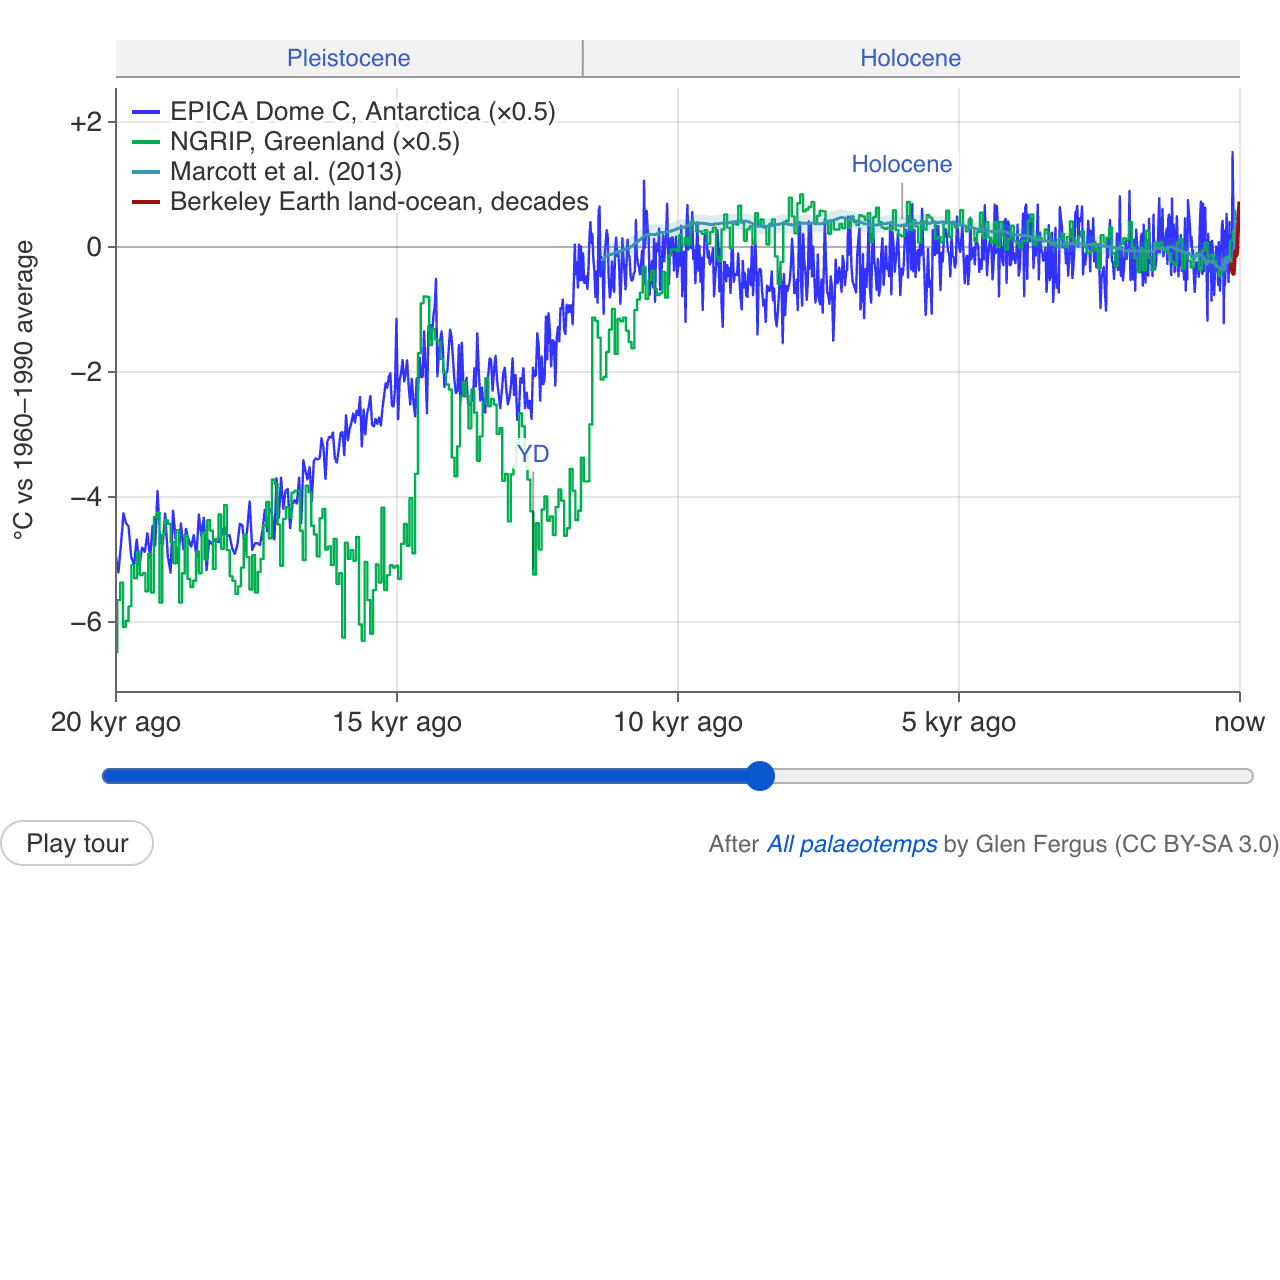
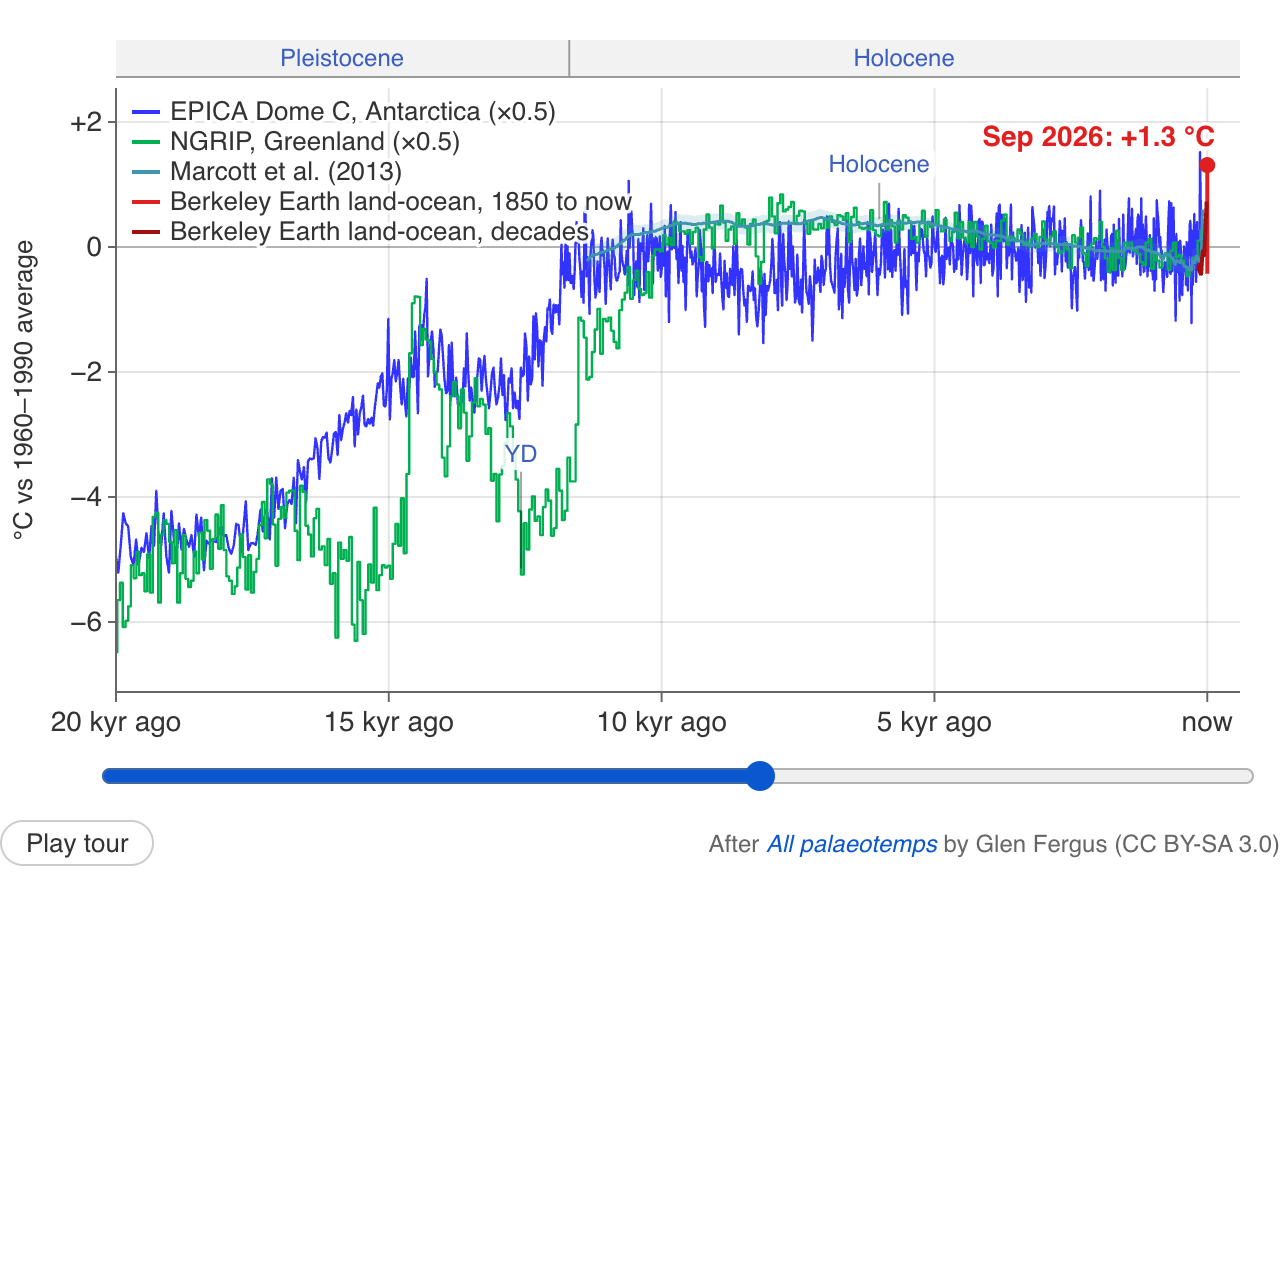
Temperature history: the latest month always on screen, with room after it
The window now runs a little past the latest month (three hundredths of its span), so the
marker at the end of the record and its label always have room and are never cut by the
plot's edge. And the thermometer record never leaves the screen: once the decades are too
narrow to draw, from about twenty thousand years back, Berkeley Earth's record stays as a
red bar from its coolest decade up to the latest month, listed in the legend as "1850 to
now", so today's temperature sits in context against the ice ages and the Phanerozoic
alike. The latest month's dot and label are drawn at every scale, and its value is always
kept inside the temperature range.

diff --git a/src/temperature-history/widget.js b/src/temperature-history/widget.js
@@ -133,6 +133,7 @@ export function createTemperatureHistoryWidget({data, width = FIGURE_WIDTH, look
   const landmarkAlpha = m => fadeIn(m.age * 1.02, m.age * 1.06) * fadeOut(m.age * 5, m.age * 8);
   const latest = monthly[monthly.length - 1];
   const latestLabel = `${monthName(latest[0])} ${Math.floor(latest[0])}: ${formatTemp(latest[1])}`;
+  const thermometerLow = Math.min(...decadal.map(p => p[1]));
 
   // The record's point a landmark hangs its leader on.
   function anchorPoint(m) {
@@ -270,8 +271,12 @@ export function createTemperatureHistoryWidget({data, width = FIGURE_WIDTH, look
   applyLayout(maxW);
 
   // ---- scales ---------------------------------------------------------------------------------
+  // The window runs from `look` years before the latest month to a little after it, so
+  // the marker at the end of the record always has room and is never cut by the edge.
+  const RIGHT_PAD = 0.03;
   const tStart = () => tEnd - look;
-  const x = t => plotL + ((t - tStart()) / look) * (plotR - plotL);
+  const tRight = () => tEnd + look * RIGHT_PAD;
+  const x = t => plotL + ((t - tStart()) / (look * (1 + RIGHT_PAD))) * (plotR - plotL);
   const y = v => PLOT_B - ((v - yLo) / (yHi - yLo)) * PLOT_H;
 
   function sliderToLook(s) {
@@ -291,7 +296,10 @@ export function createTemperatureHistoryWidget({data, width = FIGURE_WIDTH, look
   const alphas = () => ({
     monthly: fadeOut(40, 120),
     annual: fadeIn(25, 60) * fadeOut(1500, 5000),
-    decadal: fadeIn(250, 700) * fadeOut(30000, 100000),
+    decadal: fadeIn(250, 700) * fadeOut(20000, 60000),
+    // Once the decades are too narrow to draw, the thermometer record stays on screen as a
+    // bar from its coolest decade up to the latest month, so today is always in context.
+    spike: fadeIn(5000, 20000),
     marcott: fadeIn(400, 1200) * fadeOut(300000, 1e6),
     ngrip: fadeIn(800, 2500) * fadeOut(2e6, 6e6),
     epica: fadeIn(800, 2500) * fadeOut(10e6, 30e6),
@@ -305,7 +313,7 @@ export function createTemperatureHistoryWidget({data, width = FIGURE_WIDTH, look
   // drawn, over the window.
   function targetRange() {
     const a = alphas();
-    const t0 = tStart(), t1 = tEnd + look * 0.02;
+    const t0 = tStart(), t1 = tRight();
     let lo = Infinity, hi = -Infinity;
     const take = v => { if (v < lo) lo = v; if (v > hi) hi = v; };
     const scan = (pts, alpha, cols = [1]) => {
@@ -325,6 +333,8 @@ export function createTemperatureHistoryWidget({data, width = FIGURE_WIDTH, look
     scan(royer, a.royer, [1, 2, 3, 4]);
     if (!Number.isFinite(lo)) { lo = -1; hi = 1; }
     take(0);   // the 1960–1990 baseline is always in view
+    take(latest[1]);   // and so is the latest month
+    if (a.spike > 0.02) take(thermometerLow);
     const pad = Math.max(0.2, (hi - lo) * 0.08);
     return [lo - pad, hi + pad * 1.6];   // extra room above for the labels
   }
@@ -361,7 +371,7 @@ export function createTemperatureHistoryWidget({data, width = FIGURE_WIDTH, look
 
   function drawChart(shown) {
     const a = alphas();
-    const t0 = tStart(), t1 = tEnd + look * 0.02;
+    const t0 = tStart(), t1 = tRight();
 
     // Gridlines and axes.
     const yt = yTicks(yLo, yHi, PLOT_H);
@@ -388,23 +398,27 @@ export function createTemperatureHistoryWidget({data, width = FIGURE_WIDTH, look
     if (a.epica > 0.02) strokeSeries(epica, t0, t1, COLORS.epica, 1.2, a.epica);
     if (a.ngrip > 0.02) strokeSeries(ngrip, t0, t1, COLORS.ngrip, 1.2, a.ngrip);
     if (a.marcott > 0.02) drawMarcott(a.marcott, t0, t1);
+    if (a.spike > 0.02) {
+      context.globalAlpha = a.spike;
+      context.strokeStyle = COLORS.berkeley;
+      context.lineWidth = 2;
+      line(x(latest[0]), y(thermometerLow), x(latest[0]), y(latest[1]));
+      context.lineWidth = 1;
+      context.globalAlpha = 1;
+    }
     if (a.decadal > 0.02) strokeSeries(decadal, t0, t1, COLORS.berkeleyDecadal, 2, a.decadal);
     if (a.annual > 0.02) strokeSeries(annual, t0, t1, COLORS.berkeley, 1.5, a.annual);
     if (a.monthly > 0.02) drawMonthly(a.monthly, t0, t1);
 
-    // Latest month, labelled at the end of the record.
-    if (Math.max(a.monthly, a.annual) > 0.02) {
-      context.globalAlpha = Math.max(a.monthly, a.annual);
-      context.font = labelFont;
-      context.fillStyle = COLORS.berkeley;
-      context.textAlign = "right"; context.textBaseline = "bottom";
-      const endX = x(latest[0]), endY = y(latest[1]);
-      context.beginPath();
-      context.arc(endX, endY, dotR, 0, 2 * Math.PI);
-      context.fill();
-      haloText(latestLabel, Math.min(plotR - 4, endX + 4), endY - dotR - 3);
-      context.globalAlpha = 1;
-    }
+    // The latest month, always: a dot at the end of the record and its label.
+    context.font = labelFont;
+    context.fillStyle = COLORS.berkeley;
+    context.textAlign = "right"; context.textBaseline = "bottom";
+    const endX = x(latest[0]), endY = y(latest[1]);
+    context.beginPath();
+    context.arc(endX, endY, dotR, 0, 2 * Math.PI);
+    context.fill();
+    haloText(latestLabel, Math.min(plotR - 4, endX + 4), endY - dotR - 3);
 
     drawLandmarks(shown);
     context.restore();
@@ -643,6 +657,7 @@ export function createTemperatureHistoryWidget({data, width = FIGURE_WIDTH, look
     if (a.epica > 0.02) items.push(["EPICA Dome C, Antarctica (×0.5)", COLORS.epica, "line"]);
     if (a.ngrip > 0.02) items.push(["NGRIP, Greenland (×0.5)", COLORS.ngrip, "line"]);
     if (a.marcott > 0.02) items.push(["Marcott et al. (2013)", COLORS.marcott, "line"]);
+    if (a.spike > 0.02) items.push(["Berkeley Earth land-ocean, 1850 to now", COLORS.berkeley, "line"]);
     if (a.decadal > 0.02) items.push(["Berkeley Earth land-ocean, decades", COLORS.berkeleyDecadal, "line"]);
     if (a.annual > 0.02) items.push(["Berkeley Earth land-ocean, years", COLORS.berkeley, "line"]);
     if (a.monthly > 0.02) items.push(["Berkeley Earth land-ocean, months", COLORS.berkeley, "thin"]);
@@ -712,7 +727,7 @@ export function createTemperatureHistoryWidget({data, width = FIGURE_WIDTH, look
     if (look <= 12000) {
       // Calendar years, negative ones as BCE.
       const step = niceStep(look, innerW, 62);
-      for (let yr = Math.ceil(t0 / step) * step; yr <= tEnd + look * 0.02; yr += step) {
+      for (let yr = Math.ceil(t0 / step) * step; yr <= tRight(); yr += step) {
         out.push({t: yr, label: yr > 0 ? `${yr}` : yr === 0 ? "1 BCE" : `${-yr} BCE`});
       }
       return out;
